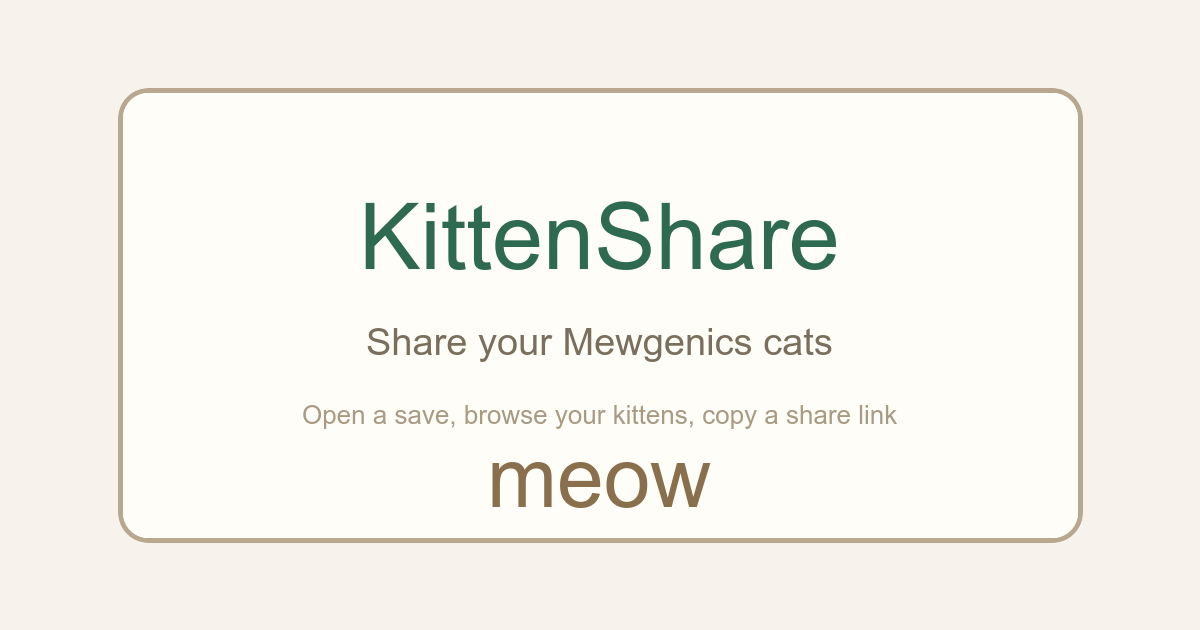
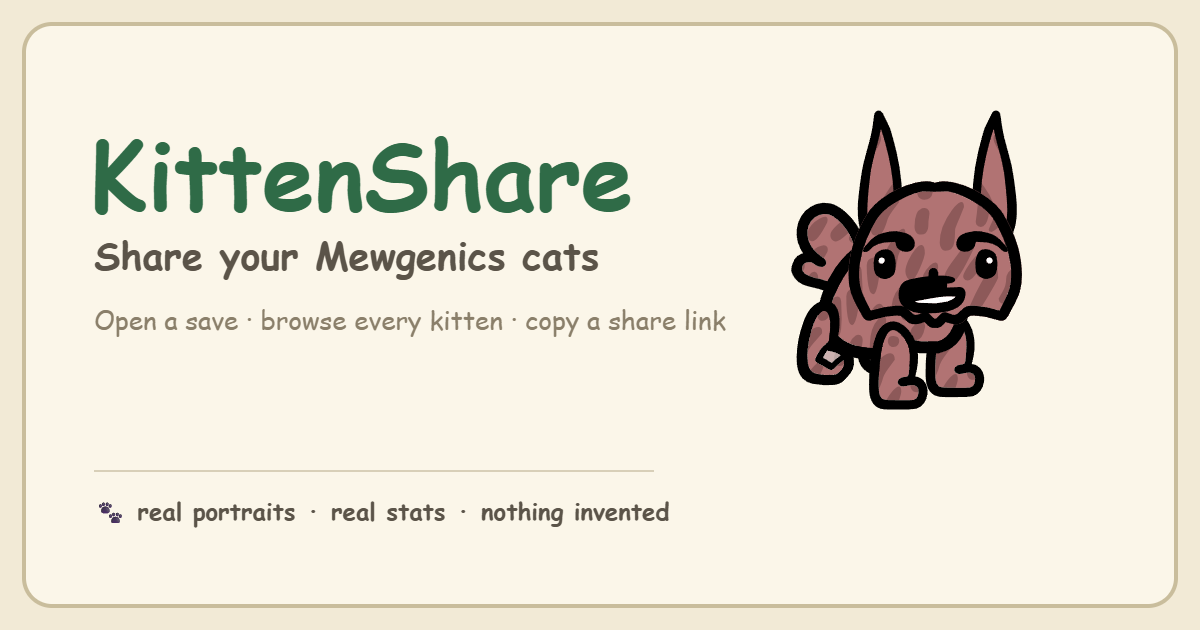
deploy: PNG card export, genotype panel, stat histograms, real-cat OG, corner cleanup

Changed region(s): [[0.0617, 0.1206, 0.8942, 0.8746], [0.0, 0.0302, 0.9867, 0.9651], [0.8942, 0.1508, 0.925, 0.8444]]

diff --git a/public/kittenshare.html b/public/kittenshare.html
@@ -154,6 +154,21 @@
   .star-btn.on{filter:none;opacity:1;background:#fdf3d6}
   .star-btn:hover{background:var(--paper2)}
   @media (pointer:coarse){ .star-btn{width:36px;height:36px;font-size:16px;right:78px;top:-8px} }
+  /* Base-stat distribution histograms in the analytics panel. */
+  .histgrid{display:grid;grid-template-columns:repeat(auto-fill,minmax(180px,1fr));gap:10px;margin:6px 0}
+  .histcell{background:var(--paper3);border:1.5px solid #d8cfb8;border-radius:8px;padding:4px 6px 2px}
+  .histcell .histh{font-family:var(--hand);font-size:12px;font-weight:800;color:var(--ink-soft);text-align:center}
+  /* Genotype panel (solo card): a collapsible list of the decoded gene ids. */
+  .kgenes{margin:8px 2px 2px;font-family:var(--hand);color:var(--ink)}
+  .kgenes summary{cursor:pointer;font-size:12.5px;font-weight:800;color:var(--ink-soft);list-style:none}
+  .kgenes summary::-webkit-details-marker{display:none}
+  .kgenes summary i{font-style:normal;font-weight:600;opacity:.7;font-size:11px}
+  .kgenes .grow{display:flex;flex-wrap:wrap;gap:5px;margin-top:6px}
+  .gchip{font-size:11px;font-weight:800;color:var(--ink);background:var(--paper3);
+    border:1.5px solid var(--ink);border-radius:6px;padding:1px 7px;display:inline-flex;gap:5px;align-items:baseline}
+  .gchip i{font-style:normal;font-weight:600;color:var(--ink-soft);font-size:9.5px;text-transform:uppercase;letter-spacing:.03em}
+  .gchip.hl{background:#eef3e6;border-color:#7f9a5e}
+  .kgenes .ghint{font-size:10px;color:var(--ink-soft);margin-top:6px;line-height:1.35}
   /* Overlay dialogs (compare / analytics): paper panel over a dimmed page. */
   .overlay{position:fixed;inset:0;z-index:40;background:rgba(43,38,34,.45);
     display:flex;align-items:flex-start;justify-content:center;padding:4vh 12px;overflow:auto}
@@ -442,6 +457,22 @@
     border:2px solid var(--ink);border-radius:7px 5px 6px 5px/5px 6px 5px 7px;cursor:pointer;
     box-shadow:1px 1px 0 rgba(43,38,34,.2);padding:0}
   .opencard-btn:hover{background:var(--paper2)}
+  /* Corner toolbar: groups the per-card action buttons into one row that sits quietly at ~half
+     opacity and comes forward on hover/focus, so a wall of cards doesn't read as a wall of
+     buttons. Positioning is reset here; each button keeps its own look + state styles. */
+  .kcard .kcorner{position:absolute;top:-8px;right:-6px;z-index:8;display:flex;gap:4px;
+    opacity:.5;transition:opacity .14s}
+  .kcard:hover .kcorner,.kcard:focus-within .kcorner{opacity:1}
+  .kcard .kcorner .opencard-btn,.kcard .kcorner .cmp-btn,
+  .kcard .kcorner .star-btn,.kcard .kcorner .img-btn{position:static;top:auto;right:auto}
+  /* 🖼 save-image button — same paper chip as its siblings. */
+  .img-btn{position:absolute;z-index:7;width:26px;height:26px;font-size:13px;line-height:1;
+    color:var(--ink);background:var(--paper3);border:2px solid var(--ink);
+    border-radius:7px 5px 6px 5px/5px 6px 5px 7px;cursor:pointer;
+    box-shadow:1px 1px 0 rgba(43,38,34,.2);padding:0}
+  .img-btn:hover{background:var(--paper2)}
+  @media (pointer:coarse){ .kcard .kcorner{opacity:1}
+    .kcard .kcorner button{width:36px;height:36px;font-size:16px} }
   /* CTA under the hero card — a paper button matching the share button, not a bare text link. */
   .ctarow{text-align:center;margin-top:14px}
   .cta-btn{display:inline-block;font-family:var(--hand);font-size:14px;font-weight:800;color:var(--paper3);
@@ -2184,6 +2215,36 @@ function itemBlock(c){
   return `<div class="kitemgrid">${cells}</div>`;
 }
 
+// Genotype panel (solo view only): the decoded appearance genes the portrait is built from —
+// coat-colour row, fur-pattern id, class-accent row, and the per-part variant ids (L/R pairs
+// collapsed when equal). Breeders use matching ids to spot shared genes across cats. Every
+// value is decoded from the save, never inferred; collapsed by default so it never crowds the card.
+function genotypeBlock(c){
+  const g = c && c.genes; if (!g || !g.slots) return '';
+  const s = g.slots;
+  const one = (k, label) => (s[k] != null ? `<span class="gchip"><i>${label}</i>${esc(String(s[k]))}</span>` : '');
+  const pair = (l, r, label) => {
+    if (s[l] == null) return '';
+    const v = (s[r] == null || s[l] === s[r]) ? String(s[l]) : s[l] + '/' + s[r];
+    return `<span class="gchip"><i>${label}</i>${esc(v)}</span>`;
+  };
+  const parts = [
+    one('Body', 'body'), one('Head', 'head'),
+    pair('Ear_L', 'Ear_R', 'ears'), pair('Eye_L', 'Eye_R', 'eyes'),
+    pair('Brow_L', 'Brow_R', 'brows'), one('Mouth', 'mouth'),
+    pair('FrontLeg_L', 'FrontLeg_R', 'front legs'), pair('RearLeg_L', 'RearLeg_R', 'rear legs'),
+    one('Tail', 'tail')
+  ].filter(Boolean).join('');
+  const meta = [];
+  if (g.coatPalette != null) meta.push(`<span class="gchip hl"><i>coat</i>row ${esc(String(g.coatPalette))}</span>`);
+  if (g.pattern != null) meta.push(`<span class="gchip hl"><i>pattern</i>${esc(String(g.pattern))}</span>`);
+  if (g.classPalette != null && g.classPalette >= 0) meta.push(`<span class="gchip hl"><i>accent</i>row ${esc(String(g.classPalette))}</span>`);
+  return `<details class="kgenes"><summary>🧬 genotype <i>(decoded gene ids)</i></summary>` +
+    (meta.length ? `<div class="grow">${meta.join('')}</div>` : '') +
+    `<div class="grow">${parts}</div>` +
+    `<div class="ghint">Part-variant ids from the save's appearance genes — matching ids across cats mean shared genes. Coat &amp; pattern index the game's palette and texture sheets.</div></details>`;
+}
+
 // Size trait badge. The game prefixes tiny cats' display names ("Lil' …" / "Tiny …")
 // but that exact prefix string lives only in compiled game code — not in the save or
 // gpak — so we can't reproduce the precise wording. What we CAN decode is the cause:
@@ -2247,9 +2308,12 @@ function kittenCard(c, big){
   // the grid tab keeps the loaded save). The card body itself is not clickable — text selection
   // and stray clicks stay inert. The button is natively focusable, so keyboard access rides it.
   const openBtn = (!big && c.key != null)
-    ? `<button class="opencard-btn" data-key="${esc(String(c.key))}" title="open ${esc(c.name)}'s card in a new tab" aria-label="open ${esc(c.name)}'s card in a new tab">⧉</button>` +
+    ? `<div class="kcorner">` +
+      `<button class="opencard-btn" data-key="${esc(String(c.key))}" title="open ${esc(c.name)}'s card in a new tab" aria-label="open ${esc(c.name)}'s card in a new tab">⧉</button>` +
+      `<button class="img-btn" data-key="${esc(String(c.key))}" title="save ${esc(c.name)}'s card as a PNG image" aria-label="save ${esc(c.name)}'s card as an image">🖼</button>` +
       `<button class="cmp-btn${__compareSet.has(c.key) ? ' on' : ''}" data-key="${esc(String(c.key))}" title="pick ${esc(c.name)} for side-by-side compare (up to 3)" aria-label="compare ${esc(c.name)}">⚖</button>` +
-      `<button class="star-btn${isStarred(c) ? ' on' : ''}" data-key="${esc(String(c.key))}" title="star ${esc(c.name)} (persists across visits)" aria-label="star ${esc(c.name)}">⭐</button>`
+      `<button class="star-btn${isStarred(c) ? ' on' : ''}" data-key="${esc(String(c.key))}" title="star ${esc(c.name)} (persists across visits)" aria-label="star ${esc(c.name)}">⭐</button>` +
+      `</div>`
     : '';
   return `<div class="kcard${big?' single':''}">
     ${openBtn}
@@ -2264,6 +2328,7 @@ function kittenCard(c, big){
     ${itemBlock(c)}
     ${stats}
     <div class="kportwrap">${mutCounter(c)}<div class="portrait">${portrait}</div></div>
+    ${big ? genotypeBlock(c) : ''}
     ${abils}
     ${(big || c.key == null)?'':`<button class="share-btn" data-key="${esc(String(c.key))}">🔗 Share link</button>`}
     ${approx}
@@ -2283,14 +2348,17 @@ function kittenCard(c, big){
 // gets a Back button that restores the browse grid in place; a RECIPIENT (no save) gets the
 // conversion CTA. Both are paper buttons, not bare text links.
 function shareCTA(){
-  const dl = `<button class="cta-btn alt" onclick="downloadPortraitPng()" title="Save this kitten's portrait as a 1024px PNG">⬇ portrait PNG</button>`;
+  // Card image (portrait + name + class + stat totals) is the primary export; the portrait-only
+  // PNG stays as a secondary option. The card button only appears when we have the cat object.
+  const card = SOLO_CAT ? `<button class="cta-btn alt" onclick="downloadCardImage(SOLO_CAT, this)" title="Save this kitten's full card (portrait + stats) as a PNG">🖼 card image</button> ` : '';
+  const dl = `<button class="cta-btn alt" onclick="downloadPortraitPng()" title="Save just this kitten's portrait as a 1024px PNG">⬇ portrait PNG</button>`;
   // Copy-link only when the page IS a share link (the demo card on the landing page has no
   // #k= URL of its own — copying the bare page URL would be a broken promise).
   const cp = /^#[kt]=/.test(location.hash)
     ? ` <button class="cta-btn alt" onclick="copyShareUrl(this)" title="Copy this kitten's share link">🔗 copy link</button>` : '';
   // Solo views always live in their own save-less tab now (openCard uses window.open), so the
   // CTA is simply the recipient conversion link; a local user just closes the tab.
-  return `<p class="ctarow"><a class="cta-btn" href="${location.pathname}">Open your own save →</a>${cp} ${dl}</p>`;
+  return `<p class="ctarow"><a class="cta-btn" href="${location.pathname}">Open your own save →</a>${cp} ${card}${dl}</p>`;
 }
 // Copy the solo tab's own #k= URL — recipients (and the local user) shouldn't have to fish it
 // out of the address bar. Same never-silent feedback contract as the grid share button.
@@ -2318,8 +2386,10 @@ function showShareView(html){
   // never a broken card.
   const p = kittenCard.pendingIdle;
   kittenCard.pendingIdle = null;
+  SOLO_CAT = p ? p.cat : null;          // remember the cat so the CTA can export its card image
   if (p) attachIdle(sv, p.cat, p.parts);
 }
+let SOLO_CAT = null;
 // TEAM view: 2-3 hero cards side by side from a #t= link. Same pipeline per cat as the single
 // view; each card gets its own idle loop (attachIdle per card root).
 function showTeamView(cats){
@@ -2450,6 +2520,85 @@ function share(key, btn){
 // (paths/gradients/masks, no external refs), so serialize -> Image -> canvas works offline.
 // Portrait only — the full HTML card (border-images, webp icons) can't be rasterized
 // client-side without a rendering library, and a wrong-looking card beats no card never.
+// ---- shareable CARD IMAGE (portrait + name + class + stat totals) -------------------------
+// A purpose-built SVG (not a DOM screenshot), so it's self-contained and rasterizes cleanly to
+// PNG on any card. Everything shown is decoded data: the portrait is the verified puppet, the
+// stat boxes carry the SAME effective totals the card shows (CON exact from HP; the rest base +
+// mutations/items/injuries). Text uses the page's hand-font fallback stack (no web-font to embed).
+const SHARE_FONT = "'Comic Sans MS','Chalkboard SE','Comic Neue',ui-rounded,cursive";
+function buildShareCardSvg(cat){
+  const W = 820, H = 1040, s = cat.stats || {};
+  const dl = statDeltas(cat);
+  const esc2 = esc;
+  // portrait: renderPortrait returns a self-contained <svg viewBox=..>; nest it by injecting a
+  // placement box into its opening tag (its own viewBox handles the scaling).
+  let port = '';
+  try {
+    const raw = renderPortrait(cat);
+    port = raw.replace(/^<svg /, '<svg x="150" y="150" width="520" height="520" preserveAspectRatio="xMidYMid meet" ');
+  } catch (e) { port = ''; }
+  const STATS = ['str','dex','con','int','spd','cha','lck'];
+  const boxes = STATS.filter(k => s[k] != null).map((k, i) => {
+    const base = s[k];
+    const exactCon = (k === 'con') && (exactEffectiveCon(s) != null);
+    const eff = exactCon ? exactEffectiveCon(s) : base + (dl.delta[k] || 0);
+    const d = eff - base;
+    const fill = d > 0 ? '#dcefe2' : (d < 0 ? '#f3dede' : '#fbf6e9');
+    const stroke = d > 0 ? '#4f8a4a' : (d < 0 ? '#a8504a' : '#2b2622');
+    const ink = d > 0 ? '#1b4332' : (d < 0 ? '#7a2020' : '#2b2622');
+    const col = i % 4, row = (i / 4) | 0;
+    const bw = 176, bh = 74, gap = 16, x0 = (W - (4 * bw + 3 * gap)) / 2;
+    const x = x0 + col * (bw + gap), y = 720 + row * (bh + gap);
+    const label = (STAT_LABEL[k] || k).toUpperCase();
+    const sup = d ? `<text x="${x + bw - 12}" y="${y + 24}" font-size="16" fill="${ink}" text-anchor="end" font-family="${SHARE_FONT}">${d > 0 ? '+' + d : d}</text>` : '';
+    return `<rect x="${x}" y="${y}" width="${bw}" height="${bh}" rx="10" fill="${fill}" stroke="${stroke}" stroke-width="2.5"/>` +
+      `<text x="${x + 14}" y="${y + 30}" font-size="17" fill="#5b5449" font-family="${SHARE_FONT}" font-weight="700">${esc2(label)}</text>` +
+      `<text x="${x + 14}" y="${y + 60}" font-size="30" fill="${ink}" font-family="${SHARE_FONT}" font-weight="800">${esc2(String(eff))}</text>` + sup;
+  }).join('');
+  const meta = [cat.cls, cat.gender].filter(Boolean).join('  ·  ');
+  const mutN = (cat.genes && Array.isArray(cat.genes.mutations)) ? cat.genes.mutations.length : 0;
+  const mutLine = mutN ? `${mutN} mutation${mutN > 1 ? 's' : ''}` : 'no mutations';
+  const con = exactEffectiveCon(s);
+  const conNote = con != null ? `   ·   final CON ${con} (from HP)` : '';
+  return `<svg xmlns="http://www.w3.org/2000/svg" viewBox="0 0 ${W} ${H}" width="${W}" height="${H}">` +
+    `<rect x="6" y="6" width="${W - 12}" height="${H - 12}" rx="26" fill="#f2ead6" stroke="#2b2622" stroke-width="5"/>` +
+    `<text x="${W / 2}" y="86" font-size="56" fill="#2b2622" text-anchor="middle" font-family="${SHARE_FONT}" font-weight="800">${esc2(cat.name || 'kitten')}</text>` +
+    `<text x="${W / 2}" y="126" font-size="24" fill="#5b5449" text-anchor="middle" font-family="${SHARE_FONT}" font-weight="700">${esc2(meta)}</text>` +
+    port +
+    `<text x="${W / 2}" y="700" font-size="19" fill="#5b5449" text-anchor="middle" font-family="${SHARE_FONT}">${esc2(mutLine)}${esc2(conNote)}</text>` +
+    boxes +
+    `<text x="${W / 2}" y="${H - 26}" font-size="20" fill="#8a7f6a" text-anchor="middle" font-family="${SHARE_FONT}" font-weight="700">🐾 KittenShare</text>` +
+    `</svg>`;
+}
+// Rasterize the share card to a 2x PNG and download it. Never-corrupt: any serialize/taint
+// failure yields no file rather than a broken one, and the button says so.
+async function downloadCardImage(cat, btn){
+  const label = btn ? btn.textContent : null;
+  try {
+    if (btn) btn.textContent = '⏳ rendering…';
+    const svg = buildShareCardSvg(cat);
+    const url = URL.createObjectURL(new Blob([svg], { type: 'image/svg+xml' }));
+    const img = new Image();
+    await new Promise((res, rej) => { img.onload = res; img.onerror = rej; img.src = url; });
+    const scale = 2, W = 820, H = 1040;
+    const canvas = document.createElement('canvas');
+    canvas.width = W * scale; canvas.height = H * scale;
+    const ctx = canvas.getContext('2d');
+    ctx.scale(scale, scale);
+    ctx.drawImage(img, 0, 0, W, H);
+    URL.revokeObjectURL(url);
+    const blob = await new Promise(r => canvas.toBlob(r, 'image/png'));
+    const a = document.createElement('a');
+    a.download = ((cat.name || 'kitten').replace(/[^\w-]+/g, '_') || 'kitten') + '_card.png';
+    a.href = URL.createObjectURL(blob);
+    a.click();
+    setTimeout(() => URL.revokeObjectURL(a.href), 4000);
+    if (btn) btn.textContent = '✅ saved!';
+  } catch (e) {
+    if (btn) btn.textContent = '⚠ export failed';
+  }
+  if (btn && label) setTimeout(() => { btn.textContent = label; }, 1600);
+}
 async function downloadPortraitPng(){
   const svg = document.querySelector('#shareView .portrait svg, #demoView .portrait svg');
   if (!svg) return;
@@ -2555,6 +2704,8 @@ document.getElementById('cards').addEventListener('click', e => {
   if (cb) { toggleCompare(Number(cb.dataset.key), cb); return; }
   const sb = e.target.closest('.star-btn');
   if (sb) { toggleStar(Number(sb.dataset.key), sb); return; }
+  const ib = e.target.closest('.img-btn');
+  if (ib) { const c = allCats.find(x => x.key === Number(ib.dataset.key)); if (c) downloadCardImage(c, ib); return; }
   const b = e.target.closest('.share-btn');
   if (b) share(Number(b.dataset.key), b);
 });
@@ -2716,6 +2867,40 @@ function showStorage(){
     <div class="dim" style="margin-top:8px">read from the save's inventory blobs; only items matching the known vocabulary are listed — nothing is guessed</div>`);
 }
 // Roster analytics: censuses over the DECODED fields of the whole roster.
+// Base-stat distribution histograms for the analytics panel. One small chart per core stat:
+// how many cats sit at each base value. Single-series magnitude, so one hue, no legend, a
+// recessive baseline, and a native <title> tooltip per bar. Uses BASE stats (decoded for every
+// cat) so the shape is complete — effective totals are only partial and would bias it.
+function statHistograms(){
+  const ACCENT = '#5f7d46', INK = '#5b5449';
+  let maxV = 1;
+  const data = STAT_KEYS.map(k => {
+    const counts = {};
+    for (const c of allCats) { const v = c.stats && c.stats[k]; if (Number.isInteger(v)) { counts[v] = (counts[v] || 0) + 1; if (v > maxV) maxV = v; } }
+    return { k, counts };
+  });
+  const charts = data.map(({ k, counts }) => {
+    const vals = []; for (let v = 1; v <= maxV; v++) vals.push({ v, n: counts[v] || 0 });
+    const maxN = Math.max(1, ...vals.map(o => o.n));
+    const W = 210, H = 116, padL = 6, padR = 6, padB = 18, padT = 14;
+    const plotW = W - padL - padR, plotH = H - padT - padB, bw = plotW / vals.length;
+    const mode = vals.reduce((a, b) => b.n > a.n ? b : a, vals[0]);
+    const bars = vals.map(({ v, n }, i) => {
+      const h = n ? Math.max(2, (n / maxN) * plotH) : 0;
+      const x = padL + i * bw, y = padT + plotH - h;
+      // Selective ticks only (first, last, mode) — never a label on every bar.
+      const tick = (v === 1 || v === maxV || v === mode.v)
+        ? `<text x="${(x + bw / 2).toFixed(1)}" y="${H - 5}" font-size="8" fill="${INK}" text-anchor="middle">${v}</text>` : '';
+      return `<rect x="${(x + 1).toFixed(1)}" y="${y.toFixed(1)}" width="${Math.max(1, bw - 2).toFixed(1)}" height="${h.toFixed(1)}" rx="2" fill="${ACCENT}"><title>${esc(STAT_LABEL[k] || k)} ${v}: ${n} cat${n === 1 ? '' : 's'}</title></rect>${tick}`;
+    }).join('');
+    const modeLbl = mode.n ? `<text x="${(padL + (vals.indexOf(mode) + 0.5) * bw).toFixed(1)}" y="${(padT + plotH - (mode.n / maxN) * plotH - 3).toFixed(1)}" font-size="8.5" fill="${INK}" text-anchor="middle" font-weight="700">${mode.n}</text>` : '';
+    return `<div class="histcell"><div class="histh">${esc(STAT_LABEL[k] || k.toUpperCase())}</div>` +
+      `<svg viewBox="0 0 ${W} ${H}" width="100%" role="img" aria-label="${esc(STAT_LABEL[k] || k)} base-stat distribution across the roster">` +
+      `<line x1="${padL}" y1="${padT + plotH}" x2="${W - padR}" y2="${padT + plotH}" stroke="#d8cfb8" stroke-width="1"/>` +
+      bars + modeLbl + `</svg></div>`;
+  }).join('');
+  return `<h3>base-stat distribution <span class="dim" style="font-weight:400">(all ${allCats.length} cats · decoded base values · hover a bar for the count)</span></h3><div class="histgrid">${charts}</div>`;
+}
 function showAnalytics(){
   if (!allCats.length) return;
   const total = allCats.length;
@@ -2763,6 +2948,7 @@ function showAnalytics(){
   openOverlay(`<h2>📊 roster stats</h2>
     <div>${total} cats · ${inHouse} in the house · ${dead} dead · ${injured} injured · ${mutants} mutants · ${cloneCats} in clone groups</div>
     <h3>best base stat in the roster</h3><table>${bests}</table>
+    ${statHistograms()}
     ${unlockHtml}
     <h3>classes</h3><table>${classes}</table>
     <h3>top 10 mutations</h3><table>${muts}</table>